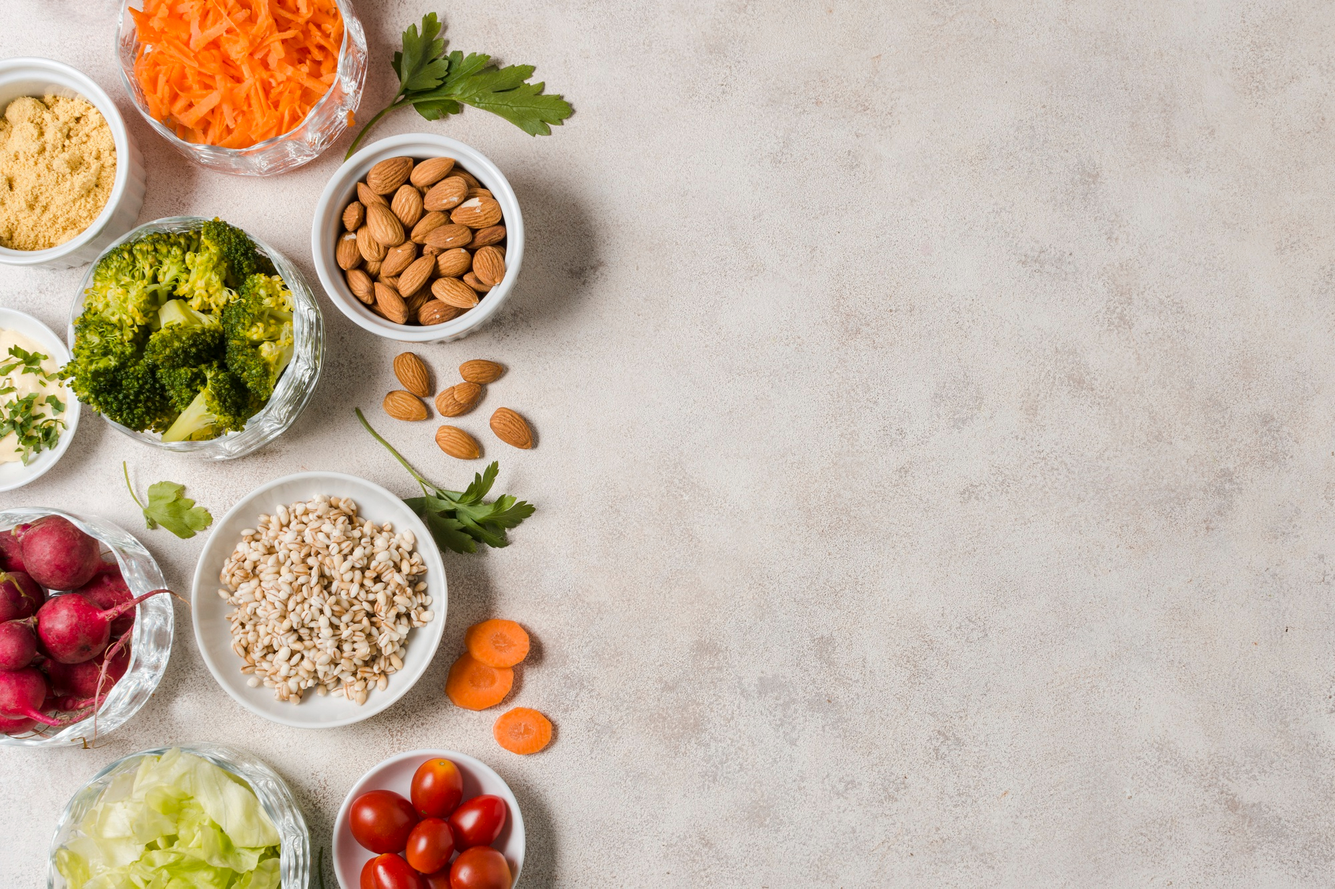
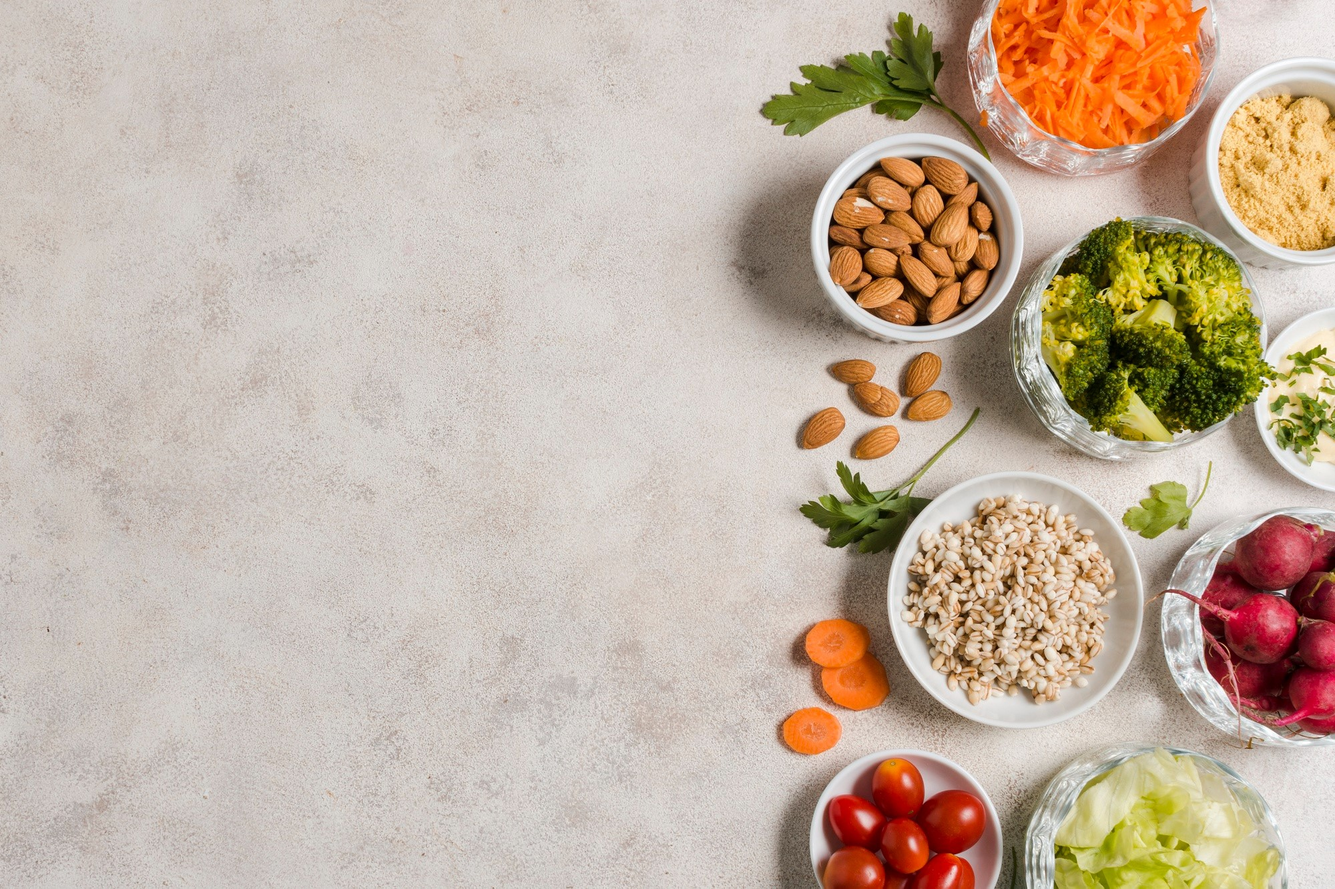
feat: main bg and arrows to change the background

diff --git a/src/sections/Header.jsx b/src/sections/Header.jsx
@@ -1,5 +1,4 @@
 import styled from 'styled-components';
-import { FaInstagram, FaWhatsapp } from 'react-icons/fa';
 
 const HeaderSize = styled.div`
     max-width: 1400px;
@@ -9,20 +8,19 @@ const HeaderSize = styled.div`
     display: flex;
     justify-content: space-between;
     align-items: center;
-    padding-top: 1.5rem;
+    padding: 2rem 1rem;
 `
-const DivIconsHeader = styled.div`
+const TitleContainer = styled.div`
     display: flex;
     align-items: center;
-    gap: 15px;
-    a {
-        cursor: pointer;
+    gap: 20px;
+    img {
+      width: 70px;
     }
 `
 const TitleHeader = styled.h1`
     font-size: 1.2rem;
     font-weight: 610;
-    margin: 0rem 3rem;
 `
 const NavHeader = styled.div`
     ul {
@@ -89,23 +87,23 @@ const Button = styled.button`
 const Header = () => {
   return (
       <header>
-        <HeaderSize>
-            <DivIconsHeader>
-                <a href="" target='_blank'><FaInstagram size={21} color="#000000" /></a>
-                <a href="" target='_blank'><FaWhatsapp size={21} color="#000000" /></a>
-            </DivIconsHeader>
+      <HeaderSize>
+        <TitleContainer>
+          <TitleHeader>Rafael</TitleHeader>
+          <img src="/logo.png" alt="Logo" />
+        </TitleContainer>
+      
             <NavHeader>
                 <ul>
                     <li><a href="#">Sobre</a></li>
                     <li><a href="#">Serviços</a></li>
-                    <TitleHeader>Rafael - Nutrição</TitleHeader>
                     <li><a href="#">Avaliações</a></li>
                     <li><a href="#">Contato</a></li>
+                    <Button className="btn">
+                        <span className="btn-text">Consulta</span>
+                    </Button>
                 </ul>
             </NavHeader>
-            <Button className="btn">
-                <span className="btn-text">Consulta</span>
-            </Button>
           </HeaderSize>
     </header>
   )

diff --git a/src/sections/Main.jsx b/src/sections/Main.jsx
@@ -1,0 +1,41 @@
+import styled from 'styled-components';
+import { GoArrowLeft, GoArrowRight } from "react-icons/go";
+
+const MainContainer = styled.main`
+    position: relative;
+`
+const MainSize = styled.div`
+`
+const ArrowsToChange = styled.div`
+    position: absolute;
+    right: 0;
+    bottom: 50px;
+    background-color: #fff;
+    padding: 1rem 3rem;
+    display: flex;
+    gap: 20px;
+`
+const DivBgMain = styled.div`
+    background-size: cover;
+    background-repeat: no-repeat;
+    background-position: center;
+    width: 100%;
+    height: 70vh;
+    background-image: url('/bg.jpg');
+`
+
+const Main = () => {
+  return (
+    <MainContainer>
+          <MainSize>
+              <ArrowsToChange>
+                  <GoArrowLeft size={21} color="#000000" />
+                  <GoArrowRight size={21} color="#000000" />
+              </ArrowsToChange>
+            <DivBgMain></DivBgMain>
+        </MainSize>
+    </MainContainer>
+  )
+}
+
+export default Main

diff --git a/src/App.jsx b/src/App.jsx
@@ -1,4 +1,5 @@
 import Header from "./sections/Header"
+import Main from "./sections/Main"
 import GlobalStyle from "./styles/GlobalStyles"
 
 function App() {
@@ -8,6 +9,7 @@ function App() {
       <GlobalStyle />
       
       <Header />
+      <Main />
     </>
   )
 }
